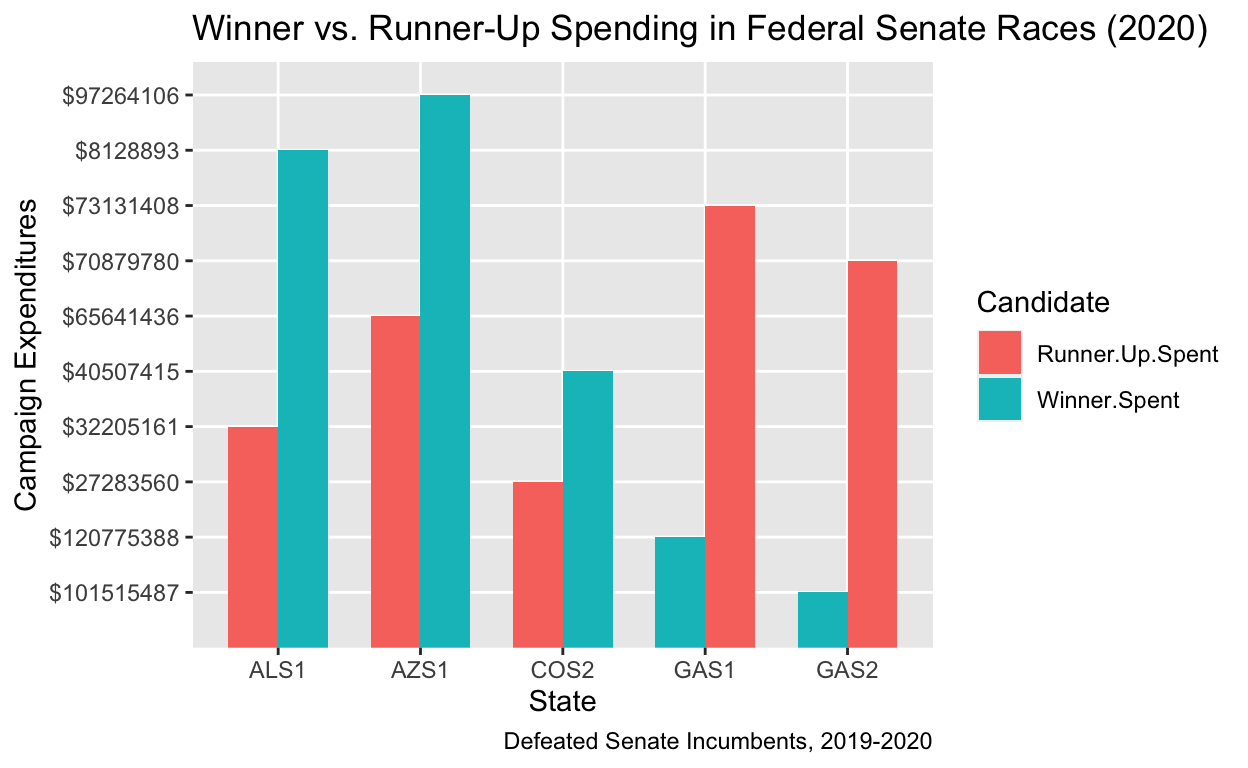
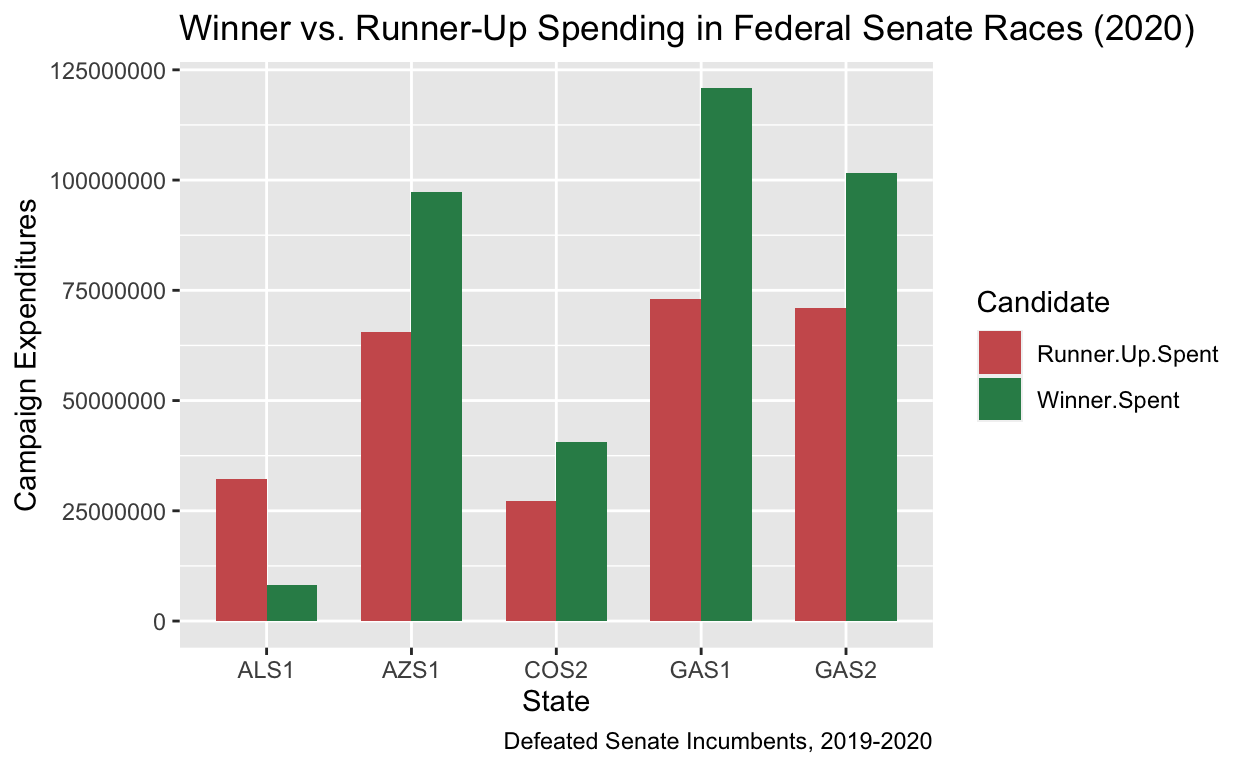
commit

Changed region(s): [[0.0312, 0.0, 0.9688, 0.9375], [0.7812, 0.4062, 0.8438, 0.5625], [0.4375, 0.1875, 0.4688, 0.2812]]

diff --git a/index.html b/index.html
@@ -1526,18 +1526,39 @@ code span.wa { color: #5e5e5e; font-style: italic; } /* Warning */
 </div>
 <div class="layout-chunk" data-layout="l-body">
 <div class="sourceCode">
-<pre class="sourceCode r"><code class="sourceCode r"><span><span class='va'>senators</span> <span class='op'>&lt;-</span> <span class='fu'><a href='https://rdrr.io/r/utils/read.table.html'>read.csv</a></span><span class='op'>(</span><span class='st'>'DefeatedSenators2020.csv'</span><span class='op'>)</span></span></code></pre>
+<pre class="sourceCode r"><code class="sourceCode r"><span><span class='va'>senators</span> <span class='op'>&lt;-</span> <span class='fu'><a href='https://rdrr.io/r/utils/read.table.html'>read.csv</a></span><span class='op'>(</span><span class='st'>'DefeatedSenators2020.csv'</span><span class='op'>)</span></span>
+<span><span class='va'>senators</span></span></code></pre>
 </div>
+<pre><code>  District            Winner Winner.Spent Secong.Highest.Vote.Getter
+1     GAS1        Jon Ossoff   $120775388               David Perdue
+2     AZS1        Mark Kelly    $97264106             Martha McSally
+3     COS2 John Hickenlooper    $40507415               Cory Gardner
+4     GAS2   Raphael Warnock   $101515487             Kelly Loeffler
+5     ALS1  Tommy Tuberville     $8128893                 Doug Jones
+  Runner.Up.Spent               Ratio
+1       $73131408           Up to 2:1
+2       $65641436           Up to 2:1
+3       $27283560           Up to 2:1
+4       $70879780           Up to 2:1
+5       $32205161 Outspent 2:1 to 5:1</code></pre>
 </div>
 <h2 id="project-thoughts">Project thoughts</h2>
 <p>I aim to explore the relationship between campaign expenditures and electoral success in federal elections. My hypothesis is that the candidate with greater campaign expenditures usually wins the election. This question has been researched before and it makes sense why a campaign that spends more is likely to win but I think this question can be further explored. It would be interesting to see if the type of campaign expenditures affects electoral success or how much money can make a difference in electoral outcomes. The explanatory variables of interest for the fundamental question I’m exploring is the campaign expenditures, measured in terms of dollars spent during a campaign cycle. The outcome variable of interest is whether or not the candidate won their election. If the candidate with the campaign that spends more wins more often than not, it would provide support for my hypothesis. The pattern that would disprove or at the very least not support my hypothesis is if on average the campaign with the greatest expenditures does not win because it would indicate that spending doesn’t matter or if the opposite occurs where the campaign that spends the least wins would not provide evidence to support my hypothesis.</p>
 <div class="layout-chunk" data-layout="l-body">
 <div class="sourceCode">
-<pre class="sourceCode r"><code class="sourceCode r"><span><span class='va'>SenatorRaces</span> <span class='op'>&lt;-</span> <span class='va'>senators</span> <span class='op'>|&gt;</span></span>
-<span>  <span class='fu'><a href='https://tidyr.tidyverse.org/reference/pivot_longer.html'>pivot_longer</a></span><span class='op'>(</span>cols <span class='op'>=</span> <span class='fu'><a href='https://rdrr.io/r/base/c.html'>c</a></span><span class='op'>(</span><span class='va'>`Winner.Spent`</span>, <span class='va'>`Runner.Up.Spent`</span><span class='op'>)</span>, names_to <span class='op'>=</span> <span class='st'>"Candidate"</span>, values_to <span class='op'>=</span> <span class='st'>"Spending"</span><span class='op'>)</span></span>
+<pre class="sourceCode r"><code class="sourceCode r"><span><span class='co'>#The Winner.Spent and Runner.Up.Spent variables are characters in the original data set so I converted them to numeric variables and removed the $ in front of the original version of these variables so R can interpret them accurately as numeric variables</span></span>
+<span><span class='va'>senators</span><span class='op'>$</span><span class='va'>Winner.Spent</span> <span class='op'>&lt;-</span> <span class='fu'><a href='https://rdrr.io/r/base/numeric.html'>as.numeric</a></span><span class='op'>(</span><span class='fu'><a href='https://rdrr.io/r/base/grep.html'>sub</a></span><span class='op'>(</span><span class='st'>"\\$"</span>, <span class='st'>""</span>,<span class='va'>senators</span><span class='op'>$</span><span class='va'>Winner.Spent</span><span class='op'>)</span><span class='op'>)</span></span>
+<span><span class='va'>senators</span><span class='op'>$</span><span class='va'>Runner.Up.Spent</span> <span class='op'>&lt;-</span> <span class='fu'><a href='https://rdrr.io/r/base/numeric.html'>as.numeric</a></span><span class='op'>(</span><span class='fu'><a href='https://rdrr.io/r/base/grep.html'>sub</a></span><span class='op'>(</span><span class='st'>"\\$"</span>, <span class='st'>""</span>,<span class='va'>senators</span><span class='op'>$</span><span class='va'>Runner.Up.Spent</span><span class='op'>)</span><span class='op'>)</span></span>
 <span></span>
+<span><span class='va'>SenatorRaces</span> <span class='op'>&lt;-</span> <span class='va'>senators</span> <span class='op'>|&gt;</span></span>
+<span>  <span class='fu'><a href='https://tidyr.tidyverse.org/reference/pivot_longer.html'>pivot_longer</a></span><span class='op'>(</span>cols <span class='op'>=</span> <span class='fu'><a href='https://rdrr.io/r/base/c.html'>c</a></span><span class='op'>(</span><span class='va'>`Winner.Spent`</span>, <span class='va'>`Runner.Up.Spent`</span><span class='op'>)</span>, names_to <span class='op'>=</span> <span class='st'>"Candidate"</span>, values_to <span class='op'>=</span> <span class='st'>"Spending"</span><span class='op'>)</span> </span>
+<span></span>
+<span><span class='co'>#The values on my y-axis were dispayed in scientific notation. To fix the way the numbers were displayed I used the following code in #the line below from this source "https://rpubs.com/techanswers88/remove-scientific-notation-in-ggplot</span></span>
+<span></span>
+<span><span class='fu'><a href='https://rdrr.io/r/base/options.html'>options</a></span><span class='op'>(</span>scipen <span class='op'>=</span> <span class='fl'>999</span><span class='op'>)</span></span>
 <span><span class='fu'><a href='https://ggplot2.tidyverse.org/reference/ggplot.html'>ggplot</a></span><span class='op'>(</span><span class='va'>SenatorRaces</span>, <span class='fu'><a href='https://ggplot2.tidyverse.org/reference/aes.html'>aes</a></span><span class='op'>(</span>x <span class='op'>=</span> <span class='va'>District</span>, y <span class='op'>=</span> <span class='va'>Spending</span>, fill <span class='op'>=</span> <span class='va'>Candidate</span><span class='op'>)</span><span class='op'>)</span> <span class='op'>+</span></span>
 <span>  <span class='fu'><a href='https://ggplot2.tidyverse.org/reference/geom_bar.html'>geom_bar</a></span><span class='op'>(</span>stat <span class='op'>=</span> <span class='st'>"identity"</span>, position <span class='op'>=</span> <span class='st'>"dodge"</span>, width <span class='op'>=</span> <span class='fl'>0.7</span><span class='op'>)</span> <span class='op'>+</span></span>
+<span>  <span class='fu'><a href='https://ggplot2.tidyverse.org/reference/scale_manual.html'>scale_fill_manual</a></span><span class='op'>(</span>values <span class='op'>=</span> <span class='fu'><a href='https://rdrr.io/r/base/c.html'>c</a></span><span class='op'>(</span><span class='st'>"indianred"</span>, <span class='st'>"seagreen"</span><span class='op'>)</span><span class='op'>)</span> <span class='op'>+</span></span>
 <span>  <span class='fu'><a href='https://ggplot2.tidyverse.org/reference/labs.html'>labs</a></span><span class='op'>(</span></span>
 <span>    title <span class='op'>=</span> <span class='st'>"Winner vs. Runner-Up Spending in Federal Senate Races (2020)"</span>,</span>
 <span>    x <span class='op'>=</span> <span class='st'>"State"</span>,</span>
@@ -1548,22 +1569,111 @@ code span.wa { color: #5e5e5e; font-style: italic; } /* Warning */
 </div>
 <p><img src="index_files/figure-html5/unnamed-chunk-3-1.png" width="624" /></p>
 </div>
+<p>The bar graph above displays the campaign expenditures by the winner and runner-up in the 2020 federal senate elections, specifically senate races where the incumbent was defeated. In 4 out of 5 of these races, the candidate that spent the most won the race. This suggests that if a candidate wants to defeat an incumbent senator, they are more likely to defeat the incumbent if their campaign makes greater expenditures.</p>
 <div class="layout-chunk" data-layout="l-body">
 <div class="sourceCode">
-<pre class="sourceCode r"><code class="sourceCode r"><span><span class='va'>openSeats</span> <span class='op'>&lt;-</span> <span class='fu'><a href='https://rdrr.io/r/utils/read.table.html'>read.csv</a></span><span class='op'>(</span><span class='st'>'OpenSenateSeat2020.csv'</span><span class='op'>)</span></span>
+<pre class="sourceCode r"><code class="sourceCode r"><span><span class='co'>#The R code below is still a work in progress so I have set it to eval = FALSE</span></span>
+<span><span class='co'>#openSeats &lt;- read.csv('OpenSenateSeat2020.csv')</span></span>
 <span><span class='va'>winningSenators</span> <span class='op'>&lt;-</span> <span class='fu'><a href='https://rdrr.io/r/utils/read.table.html'>read.csv</a></span><span class='op'>(</span><span class='st'>'WinningSenators.csv'</span><span class='op'>)</span></span>
 <span><span class='co'>#note for future: I don't think I titled all the files correctly</span></span>
-<span><span class='va'>winningSenators</span></span>
+<span><span class='va'>winningSenators</span></span></code></pre>
+</div>
+<pre><code>   District               Winner Winner.Spent
+1      RIS2            Jack Reed     $3905792
+2      ARS1           Tom Cotton     $6525299
+3      ORS1         Jeff Merkley     $8024629
+4      NES2            Ben Sasse     $4939899
+5      ILS1          Dick Durbin     $9975150
+6      NJS2          Cory Booker    $10178479
+7      MAS2            Ed Markey    $14343117
+8      DES2          Chris Coons     $5866709
+9      SDS2          Mike Rounds     $3059427
+10     NHS2       Jeanne Shaheen    $18055622
+11     LAS1         Bill Cassidy    $10212765
+12     VAS2          Mark Warner    $16717182
+13     OKS2       James M Inhofe     $5413098
+14     MNS1           Tina Smith    $15657763
+15     IDS1        James E Risch     $2174467
+16     WVS2 Shelley Moore Capito     $3904543
+17     TXS1          John Cornyn    $36106833
+18     MIS1          Gary Peters    $49747994
+19     SCS2       Lindsey Graham    $97355401
+20     MTS2        Steven Daines    $33435122
+21     KYS1      Mitch McConnell    $57708950
+22     AKS1         Dan Sullivan     $9886229
+23     IAS2           Joni Ernst    $29470595
+24     MES2        Susan Collins    $29433600
+25     NCS1          Thom Tillis    $24737348
+26     MSS1     Cindy Hyde-Smith     $3192011
+   Secong.Highest.Vote.Getter Runner.Up.Spent
+1                Allen Waters          $21944
+2    Ricky Dale Harrington Jr          $64036
+3              Jo Rae Perkins         $122048
+4               Chris Janicek         $126459
+5                 Mark Curran         $352282
+6                 Rikin Mehta         $586153
+7              Kevin O&#39;Connor         $874733
+8               Lauren Witzke         $465316
+9                  Dan Ahlers         $253114
+10              Corky Messner        $3844919
+11             Adrian Perkins        $2550054
+12                Daniel Gade        $4863920
+13               Abby Broyles        $2037262
+14                Jason Lewis        $6716094
+15            Paulette Jordan        $1062172
+16      Paula Jean Swearengin        $1979560
+17                   MJ Hegar       $28867738
+18                 John James       $46131244
+19             Jaime Harrison      $129767700
+20              Steve Bullock       $47567780
+21                Amy McGrath       $90407685
+22                   Al Gross       $19234449
+23         Theresa Greenfield       $55321649
+24                Sara Gideon       $59685282
+25             Cal Cunningham       $50873245
+26                  Mike Espy       $12285320
+                         Ratio
+1               More than 10:1
+2               More than 10:1
+3               More than 10:1
+4               More than 10:1
+5               More than 10:1
+6               More than 10:1
+7               More than 10:1
+8               More than 10:1
+9               More than 10:1
+10 More than 2:1 and Up to 5:1
+11 More than 2:1 and Up to 5:1
+12 More than 2:1 and Up to 5:1
+13 More than 2:1 and Up to 5:1
+14 More than 2:1 and Up to 5:1
+15                   Up to 2:1
+16                   Up to 2:1
+17                   Up to 2:1
+18                   Up to 2:1
+19      Outspent less than 2:1
+20      Outspent less than 2:1
+21      Outspent less than 2:1
+22      Outspent less than 2:1
+23      Outspent less than 2:1
+24         Outspent 2:1 to 5:1
+25         Outspent 2:1 to 5:1
+26         Outspent 2:1 to 5:1</code></pre>
+<div class="sourceCode">
+<pre class="sourceCode r"><code class="sourceCode r"><span><span class='va'>winningSenators</span><span class='op'>$</span><span class='va'>Winner.Spent</span> <span class='op'>&lt;-</span> <span class='fu'><a href='https://rdrr.io/r/base/numeric.html'>as.numeric</a></span><span class='op'>(</span><span class='fu'><a href='https://rdrr.io/r/base/grep.html'>sub</a></span><span class='op'>(</span><span class='st'>"\\$"</span>, <span class='st'>""</span>,<span class='va'>winningSenators</span><span class='op'>$</span><span class='va'>Winner.Spent</span><span class='op'>)</span><span class='op'>)</span></span>
+<span><span class='va'>winningSenators</span><span class='op'>$</span><span class='va'>Runner.Up.Spent</span> <span class='op'>&lt;-</span> <span class='fu'><a href='https://rdrr.io/r/base/numeric.html'>as.numeric</a></span><span class='op'>(</span><span class='fu'><a href='https://rdrr.io/r/base/grep.html'>sub</a></span><span class='op'>(</span><span class='st'>"\\$"</span>, <span class='st'>""</span>,<span class='va'>winningSenators</span><span class='op'>$</span><span class='va'>Runner.Up.Spent</span><span class='op'>)</span><span class='op'>)</span></span>
 <span></span>
 <span><span class='co'>#figure out how to present the data in a cleaner way</span></span>
 <span><span class='va'>Senators_plot</span> <span class='op'>&lt;-</span> <span class='va'>winningSenators</span> <span class='op'>|&gt;</span></span>
+<span>  <span class='fu'><a href='https://dplyr.tidyverse.org/reference/slice.html'>slice_sample</a></span><span class='op'>(</span>n <span class='op'>=</span> <span class='fl'>8</span><span class='op'>)</span> <span class='op'>|&gt;</span></span>
 <span>  <span class='fu'><a href='https://tidyr.tidyverse.org/reference/pivot_longer.html'>pivot_longer</a></span><span class='op'>(</span>cols <span class='op'>=</span> <span class='fu'><a href='https://rdrr.io/r/base/c.html'>c</a></span><span class='op'>(</span><span class='va'>`Winner.Spent`</span>, <span class='va'>`Runner.Up.Spent`</span><span class='op'>)</span>, </span>
 <span>               names_to <span class='op'>=</span> <span class='st'>"Candidate"</span>, </span>
 <span>               values_to <span class='op'>=</span> <span class='st'>"Spending"</span><span class='op'>)</span></span>
 <span></span>
 <span></span>
 <span><span class='fu'><a href='https://ggplot2.tidyverse.org/reference/ggplot.html'>ggplot</a></span><span class='op'>(</span><span class='va'>Senators_plot</span>, <span class='fu'><a href='https://ggplot2.tidyverse.org/reference/aes.html'>aes</a></span><span class='op'>(</span>x <span class='op'>=</span> <span class='va'>District</span>, y <span class='op'>=</span> <span class='va'>Spending</span>, fill <span class='op'>=</span> <span class='va'>Candidate</span><span class='op'>)</span><span class='op'>)</span> <span class='op'>+</span></span>
-<span>  <span class='fu'><a href='https://ggplot2.tidyverse.org/reference/geom_bar.html'>geom_bar</a></span><span class='op'>(</span>stat <span class='op'>=</span> <span class='st'>"identity"</span>, position <span class='op'>=</span> <span class='st'>"dodge"</span>, width <span class='op'>=</span> <span class='fl'>0.5</span><span class='op'>)</span> <span class='op'>+</span></span>
+<span>  <span class='fu'><a href='https://ggplot2.tidyverse.org/reference/geom_bar.html'>geom_bar</a></span><span class='op'>(</span>stat <span class='op'>=</span> <span class='st'>"identity"</span>, position <span class='op'>=</span> <span class='st'>"dodge"</span>, width <span class='op'>=</span> <span class='fl'>0.7</span><span class='op'>)</span> <span class='op'>+</span></span>
+<span>  <span class='fu'><a href='https://ggplot2.tidyverse.org/reference/scale_manual.html'>scale_fill_manual</a></span><span class='op'>(</span>values <span class='op'>=</span> <span class='fu'><a href='https://rdrr.io/r/base/c.html'>c</a></span><span class='op'>(</span><span class='st'>"indianred"</span>, <span class='st'>"seagreen"</span><span class='op'>)</span><span class='op'>)</span> <span class='op'>+</span></span>
 <span>  <span class='fu'><a href='https://ggplot2.tidyverse.org/reference/labs.html'>labs</a></span><span class='op'>(</span></span>
 <span>    title <span class='op'>=</span> <span class='st'>"Winner vs. Runner-Up Spending by States"</span>,</span>
 <span>    x <span class='op'>=</span> <span class='st'>"State"</span>,</span>
@@ -1571,8 +1681,9 @@ code span.wa { color: #5e5e5e; font-style: italic; } /* Warning */
 <span>    fill <span class='op'>=</span> <span class='st'>"Candidate"</span></span>
 <span>  <span class='op'>)</span> </span></code></pre>
 </div>
+<p><img src="index_files/figure-html5/unnamed-chunk-4-1.png" width="624" /></p>
 </div>
-<div class="sourceCode" id="cb1"><pre class="sourceCode r distill-force-highlighting-css"><code class="sourceCode r"></code></pre></div>
+<div class="sourceCode" id="cb3"><pre class="sourceCode r distill-force-highlighting-css"><code class="sourceCode r"></code></pre></div>
 <!--radix_placeholder_article_footer-->
 <!--/radix_placeholder_article_footer-->
 </div>
